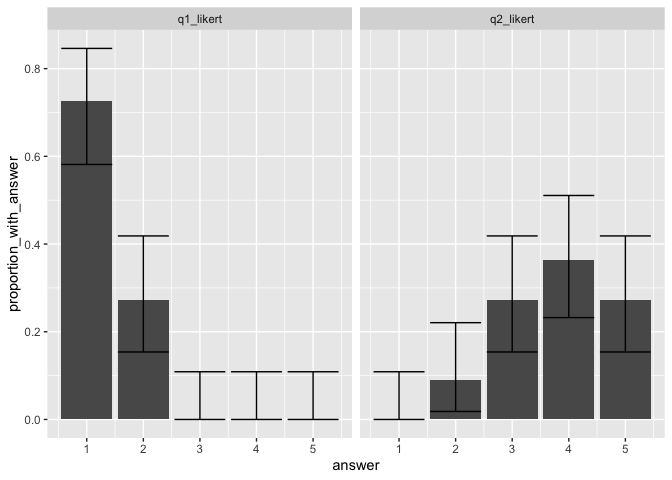
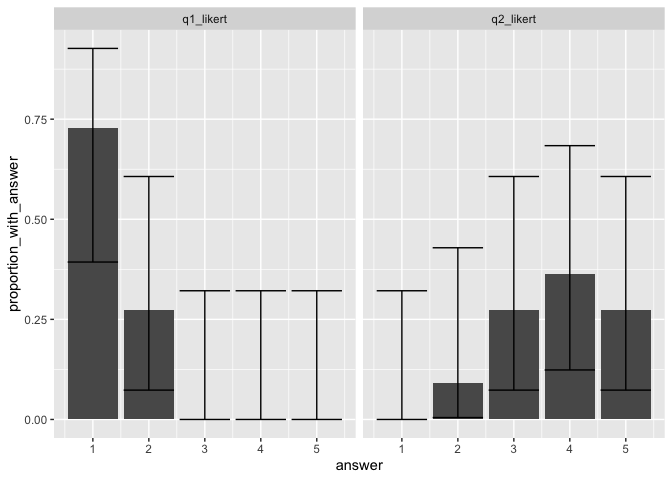
tried adding links

diff --git a/ProportionsExample.md b/ProportionsExample.md
@@ -1,6 +1,9 @@
 Estimating confidence intervals for likert style questions?
 ================
 
+An exploration of approaches to confidence intervals. [Version with
+wilson conf intervals](#sec-wilson)
+
 In a survey we received 11 responses from 100 requests.
 
 Some of the questions were likert scale answers (a 1-5 scale). We want
@@ -11,7 +14,8 @@ the responses in the sample are normally distributed. Thus the likely
 error from sampling depends on the standard deviation of the metric in
 the population. The approach assumes that the sample standard deviation
 approximates the population standard deviation. I am a little uncertain
-about doing this across the 1..5 range of the questions.
+about doing this across the 1..5 range of the questions but see [Version
+with wilson conf intervals](#sec-wilson)
 
 ``` r
 library(tidyverse)
@@ -85,7 +89,7 @@ values.
 ``` r
 with_conf_vals <- response_proportions %>% 
   # run the prop.test on each row, store the result
-  mutate(prop_results = map2(response_count, total_responses_for_question, prop.test, conf.level = .5)) %>% 
+  mutate(prop_results = map2(response_count, total_responses_for_question, prop.test, conf.level = .95)) %>% 
   # get the low/high results conf.int is a [low, high] list
   mutate(conf_low = map_dbl(prop_results, pluck, "conf.int", 1), 
          conf_high = map_dbl(prop_results, pluck, "conf.int", 2)) %>% 
@@ -96,16 +100,16 @@ kable(with_conf_vals)
 
 | question  | answer | response_count | total_responses_for_question | proportion_with_answer |  conf_low | conf_high |
 |:----------|-------:|---------------:|-----------------------------:|-----------------------:|----------:|----------:|
-| q1_likert |      1 |              8 |                           11 |              0.7272727 | 0.5814948 | 0.8461105 |
-| q1_likert |      2 |              3 |                           11 |              0.2727273 | 0.1538895 | 0.4185052 |
-| q1_likert |      3 |              0 |                           11 |              0.0000000 | 0.0000000 | 0.1087737 |
-| q1_likert |      4 |              0 |                           11 |              0.0000000 | 0.0000000 | 0.1087737 |
-| q1_likert |      5 |              0 |                           11 |              0.0000000 | 0.0000000 | 0.1087737 |
-| q2_likert |      1 |              0 |                           11 |              0.0000000 | 0.0000000 | 0.1087737 |
-| q2_likert |      2 |              1 |                           11 |              0.0909091 | 0.0182403 | 0.2207040 |
-| q2_likert |      3 |              3 |                           11 |              0.2727273 | 0.1538895 | 0.4185052 |
-| q2_likert |      4 |              4 |                           11 |              0.3636364 | 0.2323003 | 0.5107506 |
-| q2_likert |      5 |              3 |                           11 |              0.2727273 | 0.1538895 | 0.4185052 |
+| q1_likert |      1 |              8 |                           11 |              0.7272727 | 0.3931661 | 0.9267233 |
+| q1_likert |      2 |              3 |                           11 |              0.2727273 | 0.0732767 | 0.6068339 |
+| q1_likert |      3 |              0 |                           11 |              0.0000000 | 0.0000000 | 0.3214479 |
+| q1_likert |      4 |              0 |                           11 |              0.0000000 | 0.0000000 | 0.3214479 |
+| q1_likert |      5 |              0 |                           11 |              0.0000000 | 0.0000000 | 0.3214479 |
+| q2_likert |      1 |              0 |                           11 |              0.0000000 | 0.0000000 | 0.3214479 |
+| q2_likert |      2 |              1 |                           11 |              0.0909091 | 0.0047639 | 0.4288308 |
+| q2_likert |      3 |              3 |                           11 |              0.2727273 | 0.0732767 | 0.6068339 |
+| q2_likert |      4 |              4 |                           11 |              0.3636364 | 0.1236508 | 0.6838637 |
+| q2_likert |      5 |              3 |                           11 |              0.2727273 | 0.0732767 | 0.6068339 |
 
 ``` r
 with_conf_vals %>% 
@@ -117,3 +121,69 @@ with_conf_vals %>%
 ```
 
 ![](ProportionsExample_files/figure-gfm/unnamed-chunk-6-1.png)<!-- -->
+
+# Version with wilson conf intervals
+
+With input from Mick McQuaid, and this Reddit thread:
+
+<https://www.reddit.com/r/statistics/comments/10191m1/q_confidence_interval_for_likert_scale_data/>
+
+lead to this paper:
+
+Agresti, A., & Coull, B. A. (2024). Approximate Is Better than “Exact”
+for Interval Estimation of Binomial Proportions.
+
+And then to this code:
+
+<https://rpruim.github.io/fastR2/reference/wilson.ci.html>
+
+``` r
+library(fastR2)
+wilson.ci(8,11) %>% pluck(1)
+```
+
+``` r
+# wilson.ci returns negative values, not relevant for percentages.
+wilson_ci_with_zero_floor <- function(...) {
+  result = wilson.ci(...)
+  return(if_else(result < 0, 0, result))
+}
+```
+
+``` r
+with_conf_vals <- response_proportions %>% 
+  # run the prop.test on each row, store the result
+  mutate(prop_results = map2(response_count, total_responses_for_question, wilson_ci_with_zero_floor, conf.level = .95)) %>% 
+  # get the low/high results conf.int is a [low, high] list
+  mutate(conf_low = map_dbl(prop_results, pluck, 1), 
+         conf_high = map_dbl(prop_results, pluck, 2)) %>% 
+  select(-prop_results)
+
+kable(with_conf_vals)
+```
+
+| question  | answer | response_count | total_responses_for_question | proportion_with_answer |  conf_low | conf_high |
+|:----------|-------:|---------------:|-----------------------------:|-----------------------:|----------:|----------:|
+| q1_likert |      1 |              8 |                           11 |              0.7272727 | 0.4281074 | 0.9052259 |
+| q1_likert |      2 |              3 |                           11 |              0.2727273 | 0.0947741 | 0.5718926 |
+| q1_likert |      3 |              0 |                           11 |              0.0000000 | 0.0000000 | 0.3053608 |
+| q1_likert |      4 |              0 |                           11 |              0.0000000 | 0.0000000 | 0.3053608 |
+| q1_likert |      5 |              0 |                           11 |              0.0000000 | 0.0000000 | 0.3053608 |
+| q2_likert |      1 |              0 |                           11 |              0.0000000 | 0.0000000 | 0.3053608 |
+| q2_likert |      2 |              1 |                           11 |              0.0909091 | 0.0000000 | 0.4024242 |
+| q2_likert |      3 |              3 |                           11 |              0.2727273 | 0.0947741 | 0.5718926 |
+| q2_likert |      4 |              4 |                           11 |              0.3636364 | 0.1520820 | 0.6479180 |
+| q2_likert |      5 |              3 |                           11 |              0.2727273 | 0.0947741 | 0.5718926 |
+
+``` r
+with_conf_vals %>% 
+  # pivot_longer(cols = c(-question,-answer)) %>% 
+  ggplot(aes(x = answer, y = proportion_with_answer, ymin = conf_low, ymax = conf_high)) +
+  geom_bar(stat="identity") +
+  geom_errorbar() +
+  geom_label(aes(y=conf_low, label = scales::percent(conf_low, accuracy = 1)), nudge_y=-0.05) + 
+  geom_label(aes(y=conf_high, label = scales::percent(conf_high, accuracy = 1)), nudge_y=+0.05) + 
+  facet_wrap(vars(question))
+```
+
+![](ProportionsExample_files/figure-gfm/unnamed-chunk-10-1.png)<!-- -->
